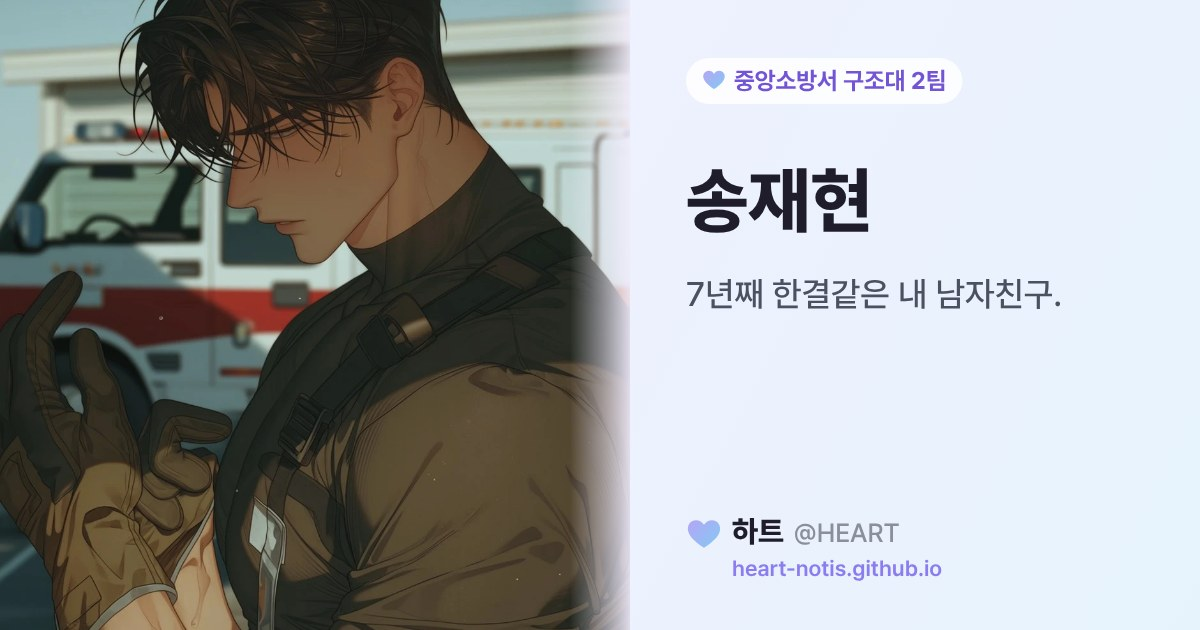
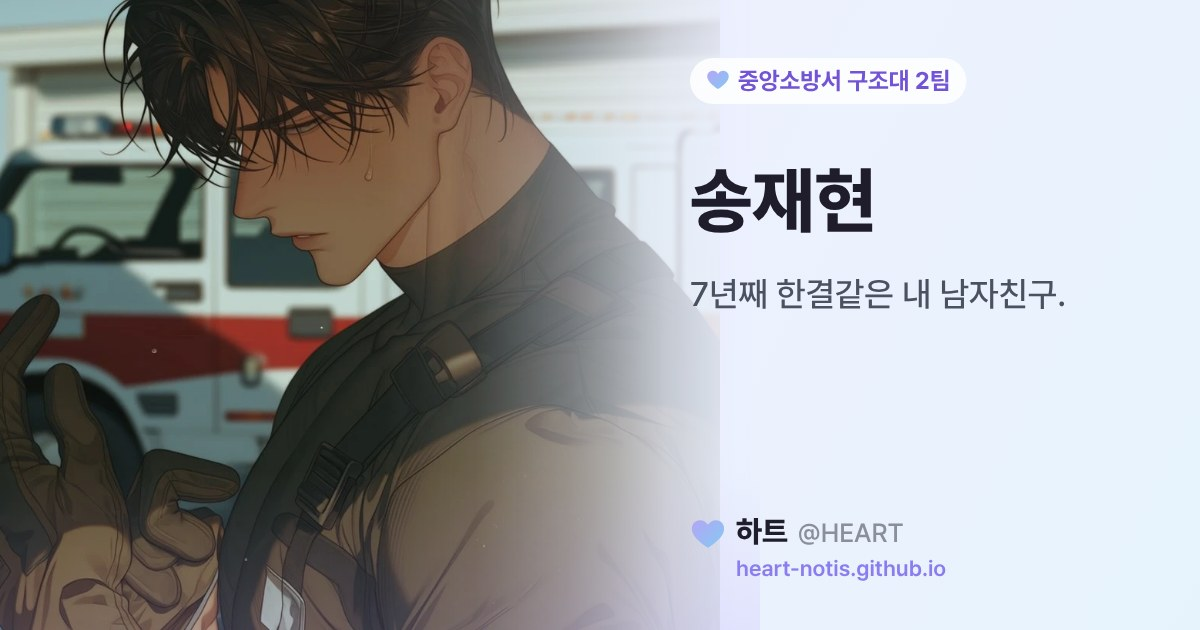
공유 카드: 사진이 바탕으로 자연스럽게 스며들게
Claude-Session: https://claude.ai/code/session_01WiCaSSd4JFATJynqa3U2xa

diff --git a/admin.html b/admin.html
@@ -2312,7 +2312,7 @@
     }
     const charUrl = p => p && p.slug ? `${SITE_URL}c/${p.slug}` : SITE_URL;
     const plainTxt = t => String(t || "").replace(/\*\*|__|~~|`/g, "").replace(/\{\{\s*user\s*\}\}/gi, "당신").replace(/\s+/g, " ").trim();
-    const cardKey = p => { const k = JSON.stringify(["v1", p.name, p.tagline || "", p.image || "", p.previewPos ?? 25, p.world || "", !!(p.spoiler && !spoilerOpened(p)), p.releaseDate || "", p.releaseTime || "", p.slug]); let h = 5381; for (let i = 0; i < k.length; i++) h = (h * 33 + k.charCodeAt(i)) | 0; return (h >>> 0).toString(36); };
+    const cardKey = p => { const k = JSON.stringify(["v2", p.name, p.tagline || "", p.image || "", p.previewPos ?? 25, p.world || "", !!(p.spoiler && !spoilerOpened(p)), p.releaseDate || "", p.releaseTime || "", p.slug]); let h = 5381; for (let i = 0; i < k.length; i++) h = (h * 33 + k.charCodeAt(i)) | 0; return (h >>> 0).toString(36); };
     function wrapLines(g, text, maxW, maxLines) {
       const words = String(text).split(/(\s+)/), lines = []; let cur = "";
       const push = w => { if (g.measureText(cur + w).width <= maxW) { cur += w; return; } if (cur.trim()) lines.push(cur.trim()); cur = ""; if (g.measureText(w).width > maxW) { for (const ch of w) { if (g.measureText(cur + ch).width > maxW) { lines.push(cur); cur = ""; } cur += ch; } } else cur = w.trimStart(); };
@@ -2328,22 +2328,30 @@
       const spo = !!(p.spoiler && !spoilerOpened(p));
       // 오른쪽 바탕
       const bg = g.createLinearGradient(0, 0, W, H); bg.addColorStop(0, "#f4efff"); bg.addColorStop(1, "#e6f3fd"); g.fillStyle = bg; g.fillRect(0, 0, W, H);
-      // 왼쪽: 캐릭터 사진 (목록 위치 기준으로 정사각형)
-      const S = 630;
+      // 왼쪽: 캐릭터 사진 → 오른쪽 바탕으로 부드럽게 스며들게
+      const S = 760, F0 = 380;
+      g.fillStyle = "#d9cffb"; g.fillRect(0, 0, S, H);
       try {
         const im = await loadImage(imgSrc || p.image);
-        const sc = Math.max(S / im.width, S / im.height), iw = im.width * sc, ih = im.height * sc;
+        const sc = Math.max(S / im.width, H / im.height), iw = im.width * sc, ih = im.height * sc;
         const pv = (typeof p.previewPos === "number" ? p.previewPos : 25) / 100;
-        g.save(); g.beginPath(); g.rect(0, 0, S, H); g.clip();
-        if (spo) g.filter = "blur(26px) saturate(1.1)";
-        g.drawImage(im, (S - iw) / 2, (H - ih) * pv, iw, ih); g.filter = "none";
+        g.save(); if (spo) g.filter = "blur(26px) saturate(1.1)";
+        g.drawImage(im, (S - iw) / 2 - 40, (H - ih) * pv, iw, ih); g.filter = "none"; g.restore();
         if (spo) { g.fillStyle = "rgba(60,40,120,.28)"; g.fillRect(0, 0, S, H); }
-        g.restore();
-      } catch { g.fillStyle = "#d9cffb"; g.fillRect(0, 0, S, H); }
-      const edge = g.createLinearGradient(S - 60, 0, S, 0); edge.addColorStop(0, "rgba(244,239,255,0)"); edge.addColorStop(1, "rgba(244,239,255,.9)"); g.fillStyle = edge; g.fillRect(S - 60, 0, 60, H);
-      if (spo) { g.fillStyle = "rgba(255,255,255,.92)"; g.font = `800 46px ${font}`; g.textAlign = "center"; g.fillText("✦ SPOILER", S / 2, H / 2 + 16); g.textAlign = "left"; }
+      } catch {}
+      // 바탕을 가로 그라데이션 마스크로 덮어서 사진이 자연스럽게 사라지게
+      const ov = document.createElement("canvas"); ov.width = W; ov.height = H; const o = ov.getContext("2d");
+      const bg2 = o.createLinearGradient(0, 0, W, H); bg2.addColorStop(0, "#f4efff"); bg2.addColorStop(1, "#e6f3fd"); o.fillStyle = bg2; o.fillRect(0, 0, W, H);
+      o.globalCompositeOperation = "destination-in";
+      const mk = o.createLinearGradient(F0, 0, S, 0);
+      [[0, 0], [.25, .12], [.5, .42], [.75, .8], [1, 1]].forEach(([t, a]) => mk.addColorStop(t, `rgba(0,0,0,${a})`));
+      o.fillStyle = mk; o.fillRect(0, 0, W, H);
+      g.drawImage(ov, 0, 0);
+      // 아래쪽도 살짝 라벤더 빛
+      const lo = g.createLinearGradient(0, H - 160, 0, H); lo.addColorStop(0, "rgba(185,162,246,0)"); lo.addColorStop(1, "rgba(185,162,246,.18)"); g.fillStyle = lo; g.fillRect(0, H - 160, S, 160);
+      if (spo) { g.fillStyle = "rgba(255,255,255,.92)"; g.font = `800 46px ${font}`; g.textAlign = "center"; g.fillText("✦ SPOILER", 330, H / 2 + 16); g.textAlign = "left"; }
       const heart = (x, y, sz) => { g.save(); g.translate(x, y); g.scale(sz / 24, sz / 24); const hg = g.createLinearGradient(0, 0, 24, 24); hg.addColorStop(0, "#b9a2f6"); hg.addColorStop(1, "#7fcdf2"); g.fillStyle = hg; g.fill(new Path2D("M12 21.2s-8.6-5.2-10.4-10.6C.3 6.6 2.8 2.8 6.7 2.8c2.3 0 4.1 1.2 5.3 3.1 1.2-1.9 3-3.1 5.3-3.1 3.9 0 6.4 3.8 5.1 7.8C20.6 16 12 21.2 12 21.2z")); g.restore(); };
-      const x = S + 56, maxW = W - x - 56; let y = 92;
+      const x = 690, maxW = W - x - 50; let y = 92;
       g.textBaseline = "alphabetic";
       // 세계관 칩
       if (p.world) {

diff --git a/data.js b/data.js
@@ -86,7 +86,7 @@ window.SITE_DATA = {
         "자유 시간을 저한테서 통째로 사시려면, 방금 치르신 가이딩 비용에 최소한 외출 할증에 위험 수당까지 얹어주셔야 할 텐데."
       ],
       "slug": "러브-LOVE",
-      "cardKey": "nh0ejl"
+      "cardKey": "1fkhm8y"
     },
     {
       "id": "mwso99e36g7y",
@@ -114,7 +114,7 @@ window.SITE_DATA = {
       "wm": true,
       "birthday": "10-24",
       "slug": "카일루스",
-      "cardKey": "bjnibi"
+      "cardKey": "jz6cwv"
     },
     {
       "id": "mwso6b62mp9u",
@@ -142,7 +142,7 @@ window.SITE_DATA = {
       "wm": true,
       "birthday": "01-30",
       "slug": "킬리언",
-      "cardKey": "1b7vhct"
+      "cardKey": "lt78f2"
     },
     {
       "id": "mwso5ft3do6j",
@@ -170,7 +170,7 @@ window.SITE_DATA = {
       "wm": true,
       "birthday": "05-03",
       "slug": "이사엘",
-      "cardKey": "r5wqyp"
+      "cardKey": "l9qkn6"
     },
     {
       "id": "mwso58cyjlaa",
@@ -198,7 +198,7 @@ window.SITE_DATA = {
       "wm": true,
       "birthday": "05-07",
       "slug": "줄리안",
-      "cardKey": "8zcpck"
+      "cardKey": "1ilsidx"
     },
     {
       "id": "mwsnp9gdcf8e",
@@ -224,7 +224,7 @@ window.SITE_DATA = {
       },
       "wm": true,
       "slug": "권태건",
-      "cardKey": "xiqpz6"
+      "cardKey": "1wbj5cz"
     },
     {
       "id": "mwso3ed29b5n",
@@ -250,7 +250,7 @@ window.SITE_DATA = {
       },
       "wm": true,
       "slug": "차승우",
-      "cardKey": "lvme96"
+      "cardKey": "gtop7v"
     },
     {
       "id": "mwso3tm7vxda",
@@ -276,7 +276,7 @@ window.SITE_DATA = {
       },
       "wm": true,
       "slug": "강태욱",
-      "cardKey": "192lpto"
+      "cardKey": "1bte1ct"
     },
     {
       "id": "mwso42vhuaf6",
@@ -304,7 +304,7 @@ window.SITE_DATA = {
       },
       "wm": true,
       "slug": "제로",
-      "cardKey": "1pcc4az"
+      "cardKey": "6flsb0"
     },
     {
       "id": "mwso4qng640u",
@@ -353,7 +353,7 @@ window.SITE_DATA = {
       "wm": true,
       "birthday": "10-14",
       "slug": "차이현",
-      "cardKey": "wa2dh2"
+      "cardKey": "hw2jh3"
     },
     {
       "id": "mwrzr4dyeaev",
@@ -384,7 +384,7 @@ window.SITE_DATA = {
       "previewZoom": 1,
       "wm": true,
       "slug": "바쿠",
-      "cardKey": "17sg8nr"
+      "cardKey": "a68ago"
     },
     {
       "id": "mwrtiya3dc2d",
@@ -417,7 +417,7 @@ window.SITE_DATA = {
       "previewZoom": 1,
       "birthday": "08-15",
       "slug": "차은호",
-      "cardKey": "1506gch"
+      "cardKey": "vpvrgi"
     },
     {
       "id": "mwrpnjsa3wrf",
@@ -444,7 +444,7 @@ window.SITE_DATA = {
       "theme": "home",
       "wm": true,
       "slug": "한세빈",
-      "cardKey": "r9rxg8"
+      "cardKey": "1ieagk9"
     },
     {
       "id": "mwrpmrvpy9l0",
@@ -471,7 +471,7 @@ window.SITE_DATA = {
       "theme": "home",
       "wm": true,
       "slug": "강태승",
-      "cardKey": "1jjw0y2"
+      "cardKey": "raetyj"
     },
     {
       "id": "mwrpqewk3sy6",
@@ -498,7 +498,7 @@ window.SITE_DATA = {
       "theme": "home",
       "wm": true,
       "slug": "늘봄-셰어하우스",
-      "cardKey": "1m21gq8"
+      "cardKey": "1osts9d"
     },
     {
       "id": "mwrpoipi2f62",
@@ -525,7 +525,7 @@ window.SITE_DATA = {
       "theme": "home",
       "wm": true,
       "slug": "늘봄-셰어하우스-2",
-      "cardKey": "1evxgrd"
+      "cardKey": "2r8pga"
     },
     {
       "id": "mwrpfr95ttut",
@@ -552,7 +552,7 @@ window.SITE_DATA = {
       "wm": true,
       "birthday": "12-24",
       "slug": "니힐",
-      "cardKey": "upsj6n"
+      "cardKey": "1lub2ao"
     },
     {
       "id": "mwrpenxf93yt",
@@ -581,7 +581,7 @@ window.SITE_DATA = {
       "previewZoom": 1,
       "birthday": "07-08",
       "slug": "베일",
-      "cardKey": "bojgbm"
+      "cardKey": "1km8fmr"
     },
     {
       "id": "mwsj5mvjzgsf",
@@ -608,7 +608,7 @@ window.SITE_DATA = {
       "theme": "fire",
       "wm": true,
       "slug": "중앙소방서-구조대-2팀",
-      "cardKey": "1dnctwk"
+      "cardKey": "1x67ch1"
     },
     {
       "id": "mwrmeo1x9fr6",
@@ -643,7 +643,7 @@ window.SITE_DATA = {
         "뭘 봐."
       ],
       "slug": "오태식",
-      "cardKey": "1dlpbk7"
+      "cardKey": "fzhdd4"
     },
     {
       "id": "mwrmb1hcvuhk",
@@ -678,7 +678,7 @@ window.SITE_DATA = {
         "혹시 시간 비어요?"
       ],
       "slug": "강민우",
-      "cardKey": "u07znv"
+      "cardKey": "1qqsoc"
     },
     {
       "id": "mwrlmy5purob",
@@ -715,7 +715,7 @@ window.SITE_DATA = {
         "괜히 돌아다니지 말고 앉아서 쉬기나 해."
       ],
       "slug": "송재현",
-      "cardKey": "brennm"
+      "cardKey": "nnnvpf"
     }
   ]
 };

diff --git a/c/중앙소방서-구조대-2팀/index.html b/c/중앙소방서-구조대-2팀/index.html
@@ -3,9 +3,9 @@
 <title>중앙소방서 구조대 2팀 · 하트 (@HEART)</title>
 <meta property="og:type" content="website" /><meta property="og:site_name" content="하트 (@HEART)" />
 <meta property="og:title" content="중앙소방서 구조대 2팀 · 하트 (@HEART)" /><meta property="og:description" content="가장 가까운 곳에서 지키겠습니다." />
-<meta property="og:url" content="https://heart-notis.github.io/c/%EC%A4%91%EC%95%99%EC%86%8C%EB%B0%A9%EC%84%9C-%EA%B5%AC%EC%A1%B0%EB%8C%80-2%ED%8C%80/" /><meta property="og:image" content="https://heart-notis.github.io/c/%EC%A4%91%EC%95%99%EC%86%8C%EB%B0%A9%EC%84%9C-%EA%B5%AC%EC%A1%B0%EB%8C%80-2%ED%8C%80/card.jpg?v=1dnctwk" />
+<meta property="og:url" content="https://heart-notis.github.io/c/%EC%A4%91%EC%95%99%EC%86%8C%EB%B0%A9%EC%84%9C-%EA%B5%AC%EC%A1%B0%EB%8C%80-2%ED%8C%80/" /><meta property="og:image" content="https://heart-notis.github.io/c/%EC%A4%91%EC%95%99%EC%86%8C%EB%B0%A9%EC%84%9C-%EA%B5%AC%EC%A1%B0%EB%8C%80-2%ED%8C%80/card.jpg?v=1x67ch1" />
 <meta property="og:image:width" content="1200" /><meta property="og:image:height" content="630" />
-<meta name="twitter:card" content="summary_large_image" /><meta name="twitter:title" content="중앙소방서 구조대 2팀 · 하트 (@HEART)" /><meta name="twitter:description" content="가장 가까운 곳에서 지키겠습니다." /><meta name="twitter:image" content="https://heart-notis.github.io/c/%EC%A4%91%EC%95%99%EC%86%8C%EB%B0%A9%EC%84%9C-%EA%B5%AC%EC%A1%B0%EB%8C%80-2%ED%8C%80/card.jpg?v=1dnctwk" />
+<meta name="twitter:card" content="summary_large_image" /><meta name="twitter:title" content="중앙소방서 구조대 2팀 · 하트 (@HEART)" /><meta name="twitter:description" content="가장 가까운 곳에서 지키겠습니다." /><meta name="twitter:image" content="https://heart-notis.github.io/c/%EC%A4%91%EC%95%99%EC%86%8C%EB%B0%A9%EC%84%9C-%EA%B5%AC%EC%A1%B0%EB%8C%80-2%ED%8C%80/card.jpg?v=1x67ch1" />
 <script>location.replace("/?from=share#post-mwsj5mvjzgsf");</script>
 <meta http-equiv="refresh" content="0; url=/?from=share#post-mwsj5mvjzgsf" />
 </head><body></body></html>

diff --git a/c/늘봄-셰어하우스-2/index.html b/c/늘봄-셰어하우스-2/index.html
@@ -3,9 +3,9 @@
 <title>🏡 늘봄 셰어하우스 · 하트 (@HEART)</title>
 <meta property="og:type" content="website" /><meta property="og:site_name" content="하트 (@HEART)" />
 <meta property="og:title" content="🏡 늘봄 셰어하우스 · 하트 (@HEART)" /><meta property="og:description" content="🏡 혼자 거기 있지 말고, 얼른 이리로 오세요." />
-<meta property="og:url" content="https://heart-notis.github.io/c/%EB%8A%98%EB%B4%84-%EC%85%B0%EC%96%B4%ED%95%98%EC%9A%B0%EC%8A%A4-2/" /><meta property="og:image" content="https://heart-notis.github.io/c/%EB%8A%98%EB%B4%84-%EC%85%B0%EC%96%B4%ED%95%98%EC%9A%B0%EC%8A%A4-2/card.jpg?v=1evxgrd" />
+<meta property="og:url" content="https://heart-notis.github.io/c/%EB%8A%98%EB%B4%84-%EC%85%B0%EC%96%B4%ED%95%98%EC%9A%B0%EC%8A%A4-2/" /><meta property="og:image" content="https://heart-notis.github.io/c/%EB%8A%98%EB%B4%84-%EC%85%B0%EC%96%B4%ED%95%98%EC%9A%B0%EC%8A%A4-2/card.jpg?v=2r8pga" />
 <meta property="og:image:width" content="1200" /><meta property="og:image:height" content="630" />
-<meta name="twitter:card" content="summary_large_image" /><meta name="twitter:title" content="🏡 늘봄 셰어하우스 · 하트 (@HEART)" /><meta name="twitter:description" content="🏡 혼자 거기 있지 말고, 얼른 이리로 오세요." /><meta name="twitter:image" content="https://heart-notis.github.io/c/%EB%8A%98%EB%B4%84-%EC%85%B0%EC%96%B4%ED%95%98%EC%9A%B0%EC%8A%A4-2/card.jpg?v=1evxgrd" />
+<meta name="twitter:card" content="summary_large_image" /><meta name="twitter:title" content="🏡 늘봄 셰어하우스 · 하트 (@HEART)" /><meta name="twitter:description" content="🏡 혼자 거기 있지 말고, 얼른 이리로 오세요." /><meta name="twitter:image" content="https://heart-notis.github.io/c/%EB%8A%98%EB%B4%84-%EC%85%B0%EC%96%B4%ED%95%98%EC%9A%B0%EC%8A%A4-2/card.jpg?v=2r8pga" />
 <script>location.replace("/?from=share#post-mwrpoipi2f62");</script>
 <meta http-equiv="refresh" content="0; url=/?from=share#post-mwrpoipi2f62" />
 </head><body></body></html>

diff --git a/c/늘봄-셰어하우스/index.html b/c/늘봄-셰어하우스/index.html
@@ -3,9 +3,9 @@
 <title>🔞 늘봄 셰어하우스 · 하트 (@HEART)</title>
 <meta property="og:type" content="website" /><meta property="og:site_name" content="하트 (@HEART)" />
 <meta property="og:title" content="🔞 늘봄 셰어하우스 · 하트 (@HEART)" /><meta property="og:description" content="🔞 당신, 빼지 말고 이쪽으로 와." />
-<meta property="og:url" content="https://heart-notis.github.io/c/%EB%8A%98%EB%B4%84-%EC%85%B0%EC%96%B4%ED%95%98%EC%9A%B0%EC%8A%A4/" /><meta property="og:image" content="https://heart-notis.github.io/c/%EB%8A%98%EB%B4%84-%EC%85%B0%EC%96%B4%ED%95%98%EC%9A%B0%EC%8A%A4/card.jpg?v=1m21gq8" />
+<meta property="og:url" content="https://heart-notis.github.io/c/%EB%8A%98%EB%B4%84-%EC%85%B0%EC%96%B4%ED%95%98%EC%9A%B0%EC%8A%A4/" /><meta property="og:image" content="https://heart-notis.github.io/c/%EB%8A%98%EB%B4%84-%EC%85%B0%EC%96%B4%ED%95%98%EC%9A%B0%EC%8A%A4/card.jpg?v=1osts9d" />
 <meta property="og:image:width" content="1200" /><meta property="og:image:height" content="630" />
-<meta name="twitter:card" content="summary_large_image" /><meta name="twitter:title" content="🔞 늘봄 셰어하우스 · 하트 (@HEART)" /><meta name="twitter:description" content="🔞 당신, 빼지 말고 이쪽으로 와." /><meta name="twitter:image" content="https://heart-notis.github.io/c/%EB%8A%98%EB%B4%84-%EC%85%B0%EC%96%B4%ED%95%98%EC%9A%B0%EC%8A%A4/card.jpg?v=1m21gq8" />
+<meta name="twitter:card" content="summary_large_image" /><meta name="twitter:title" content="🔞 늘봄 셰어하우스 · 하트 (@HEART)" /><meta name="twitter:description" content="🔞 당신, 빼지 말고 이쪽으로 와." /><meta name="twitter:image" content="https://heart-notis.github.io/c/%EB%8A%98%EB%B4%84-%EC%85%B0%EC%96%B4%ED%95%98%EC%9A%B0%EC%8A%A4/card.jpg?v=1osts9d" />
 <script>location.replace("/?from=share#post-mwrpqewk3sy6");</script>
 <meta http-equiv="refresh" content="0; url=/?from=share#post-mwrpqewk3sy6" />
 </head><body></body></html>

diff --git a/c/강태욱/index.html b/c/강태욱/index.html
@@ -3,9 +3,9 @@
 <title>강태욱 · 하트 (@HEART)</title>
 <meta property="og:type" content="website" /><meta property="og:site_name" content="하트 (@HEART)" />
 <meta property="og:title" content="강태욱 · 하트 (@HEART)" /><meta property="og:description" content="사람 하나 주워놓고 끝까지 책임지는 거. 그거 생각보다 존나 피곤한 일이더라." />
-<meta property="og:url" content="https://heart-notis.github.io/c/%EA%B0%95%ED%83%9C%EC%9A%B1/" /><meta property="og:image" content="https://heart-notis.github.io/c/%EA%B0%95%ED%83%9C%EC%9A%B1/card.jpg?v=192lpto" />
+<meta property="og:url" content="https://heart-notis.github.io/c/%EA%B0%95%ED%83%9C%EC%9A%B1/" /><meta property="og:image" content="https://heart-notis.github.io/c/%EA%B0%95%ED%83%9C%EC%9A%B1/card.jpg?v=1bte1ct" />
 <meta property="og:image:width" content="1200" /><meta property="og:image:height" content="630" />
-<meta name="twitter:card" content="summary_large_image" /><meta name="twitter:title" content="강태욱 · 하트 (@HEART)" /><meta name="twitter:description" content="사람 하나 주워놓고 끝까지 책임지는 거. 그거 생각보다 존나 피곤한 일이더라." /><meta name="twitter:image" content="https://heart-notis.github.io/c/%EA%B0%95%ED%83%9C%EC%9A%B1/card.jpg?v=192lpto" />
+<meta name="twitter:card" content="summary_large_image" /><meta name="twitter:title" content="강태욱 · 하트 (@HEART)" /><meta name="twitter:description" content="사람 하나 주워놓고 끝까지 책임지는 거. 그거 생각보다 존나 피곤한 일이더라." /><meta name="twitter:image" content="https://heart-notis.github.io/c/%EA%B0%95%ED%83%9C%EC%9A%B1/card.jpg?v=1bte1ct" />
 <script>location.replace("/?from=share#post-mwso3tm7vxda");</script>
 <meta http-equiv="refresh" content="0; url=/?from=share#post-mwso3tm7vxda" />
 </head><body></body></html>

diff --git a/c/카일루스/index.html b/c/카일루스/index.html
@@ -3,9 +3,9 @@
 <title>카일루스 · 하트 (@HEART)</title>
 <meta property="og:type" content="website" /><meta property="og:site_name" content="하트 (@HEART)" />
 <meta property="og:title" content="카일루스 · 하트 (@HEART)" /><meta property="og:description" content="사랑? 그대가 바란 것이 고작 그런 시시한 환상뿐이었나?" />
-<meta property="og:url" content="https://heart-notis.github.io/c/%EC%B9%B4%EC%9D%BC%EB%A3%A8%EC%8A%A4/" /><meta property="og:image" content="https://heart-notis.github.io/c/%EC%B9%B4%EC%9D%BC%EB%A3%A8%EC%8A%A4/card.jpg?v=bjnibi" />
+<meta property="og:url" content="https://heart-notis.github.io/c/%EC%B9%B4%EC%9D%BC%EB%A3%A8%EC%8A%A4/" /><meta property="og:image" content="https://heart-notis.github.io/c/%EC%B9%B4%EC%9D%BC%EB%A3%A8%EC%8A%A4/card.jpg?v=jz6cwv" />
 <meta property="og:image:width" content="1200" /><meta property="og:image:height" content="630" />
-<meta name="twitter:card" content="summary_large_image" /><meta name="twitter:title" content="카일루스 · 하트 (@HEART)" /><meta name="twitter:description" content="사랑? 그대가 바란 것이 고작 그런 시시한 환상뿐이었나?" /><meta name="twitter:image" content="https://heart-notis.github.io/c/%EC%B9%B4%EC%9D%BC%EB%A3%A8%EC%8A%A4/card.jpg?v=bjnibi" />
+<meta name="twitter:card" content="summary_large_image" /><meta name="twitter:title" content="카일루스 · 하트 (@HEART)" /><meta name="twitter:description" content="사랑? 그대가 바란 것이 고작 그런 시시한 환상뿐이었나?" /><meta name="twitter:image" content="https://heart-notis.github.io/c/%EC%B9%B4%EC%9D%BC%EB%A3%A8%EC%8A%A4/card.jpg?v=jz6cwv" />
 <script>location.replace("/?from=share#post-mwso99e36g7y");</script>
 <meta http-equiv="refresh" content="0; url=/?from=share#post-mwso99e36g7y" />
 </head><body></body></html>

diff --git a/c/줄리안/index.html b/c/줄리안/index.html
@@ -3,9 +3,9 @@
 <title>줄리안 · 하트 (@HEART)</title>
 <meta property="og:type" content="website" /><meta property="og:site_name" content="하트 (@HEART)" />
 <meta property="og:title" content="줄리안 · 하트 (@HEART)" /><meta property="og:description" content="사랑에도 손익을 따져야 한다면, 아무래도 이번에는 내가 손해군요." />
-<meta property="og:url" content="https://heart-notis.github.io/c/%EC%A4%84%EB%A6%AC%EC%95%88/" /><meta property="og:image" content="https://heart-notis.github.io/c/%EC%A4%84%EB%A6%AC%EC%95%88/card.jpg?v=8zcpck" />
+<meta property="og:url" content="https://heart-notis.github.io/c/%EC%A4%84%EB%A6%AC%EC%95%88/" /><meta property="og:image" content="https://heart-notis.github.io/c/%EC%A4%84%EB%A6%AC%EC%95%88/card.jpg?v=1ilsidx" />
 <meta property="og:image:width" content="1200" /><meta property="og:image:height" content="630" />
-<meta name="twitter:card" content="summary_large_image" /><meta name="twitter:title" content="줄리안 · 하트 (@HEART)" /><meta name="twitter:description" content="사랑에도 손익을 따져야 한다면, 아무래도 이번에는 내가 손해군요." /><meta name="twitter:image" content="https://heart-notis.github.io/c/%EC%A4%84%EB%A6%AC%EC%95%88/card.jpg?v=8zcpck" />
+<meta name="twitter:card" content="summary_large_image" /><meta name="twitter:title" content="줄리안 · 하트 (@HEART)" /><meta name="twitter:description" content="사랑에도 손익을 따져야 한다면, 아무래도 이번에는 내가 손해군요." /><meta name="twitter:image" content="https://heart-notis.github.io/c/%EC%A4%84%EB%A6%AC%EC%95%88/card.jpg?v=1ilsidx" />
 <script>location.replace("/?from=share#post-mwso58cyjlaa");</script>
 <meta http-equiv="refresh" content="0; url=/?from=share#post-mwso58cyjlaa" />
 </head><body></body></html>

diff --git a/c/킬리언/index.html b/c/킬리언/index.html
@@ -3,9 +3,9 @@
 <title>킬리언 · 하트 (@HEART)</title>
 <meta property="og:type" content="website" /><meta property="og:site_name" content="하트 (@HEART)" />
 <meta property="og:title" content="킬리언 · 하트 (@HEART)" /><meta property="og:description" content="사랑을 받아 본 적은 없지만, 당신에게는 내 모든 것을 주고싶다." />
-<meta property="og:url" content="https://heart-notis.github.io/c/%ED%82%AC%EB%A6%AC%EC%96%B8/" /><meta property="og:image" content="https://heart-notis.github.io/c/%ED%82%AC%EB%A6%AC%EC%96%B8/card.jpg?v=1b7vhct" />
+<meta property="og:url" content="https://heart-notis.github.io/c/%ED%82%AC%EB%A6%AC%EC%96%B8/" /><meta property="og:image" content="https://heart-notis.github.io/c/%ED%82%AC%EB%A6%AC%EC%96%B8/card.jpg?v=lt78f2" />
 <meta property="og:image:width" content="1200" /><meta property="og:image:height" content="630" />
-<meta name="twitter:card" content="summary_large_image" /><meta name="twitter:title" content="킬리언 · 하트 (@HEART)" /><meta name="twitter:description" content="사랑을 받아 본 적은 없지만, 당신에게는 내 모든 것을 주고싶다." /><meta name="twitter:image" content="https://heart-notis.github.io/c/%ED%82%AC%EB%A6%AC%EC%96%B8/card.jpg?v=1b7vhct" />
+<meta name="twitter:card" content="summary_large_image" /><meta name="twitter:title" content="킬리언 · 하트 (@HEART)" /><meta name="twitter:description" content="사랑을 받아 본 적은 없지만, 당신에게는 내 모든 것을 주고싶다." /><meta name="twitter:image" content="https://heart-notis.github.io/c/%ED%82%AC%EB%A6%AC%EC%96%B8/card.jpg?v=lt78f2" />
 <script>location.replace("/?from=share#post-mwso6b62mp9u");</script>
 <meta http-equiv="refresh" content="0; url=/?from=share#post-mwso6b62mp9u" />
 </head><body></body></html>

diff --git a/c/이사엘/index.html b/c/이사엘/index.html
@@ -3,9 +3,9 @@
 <title>이사엘 · 하트 (@HEART)</title>
 <meta property="og:type" content="website" /><meta property="og:site_name" content="하트 (@HEART)" />
 <meta property="og:title" content="이사엘 · 하트 (@HEART)" /><meta property="og:description" content="단둘이 있을 때만큼은 연기라고 생각하지 말아 주셨으면 합니다." />
-<meta property="og:url" content="https://heart-notis.github.io/c/%EC%9D%B4%EC%82%AC%EC%97%98/" /><meta property="og:image" content="https://heart-notis.github.io/c/%EC%9D%B4%EC%82%AC%EC%97%98/card.jpg?v=r5wqyp" />
+<meta property="og:url" content="https://heart-notis.github.io/c/%EC%9D%B4%EC%82%AC%EC%97%98/" /><meta property="og:image" content="https://heart-notis.github.io/c/%EC%9D%B4%EC%82%AC%EC%97%98/card.jpg?v=l9qkn6" />
 <meta property="og:image:width" content="1200" /><meta property="og:image:height" content="630" />
-<meta name="twitter:card" content="summary_large_image" /><meta name="twitter:title" content="이사엘 · 하트 (@HEART)" /><meta name="twitter:description" content="단둘이 있을 때만큼은 연기라고 생각하지 말아 주셨으면 합니다." /><meta name="twitter:image" content="https://heart-notis.github.io/c/%EC%9D%B4%EC%82%AC%EC%97%98/card.jpg?v=r5wqyp" />
+<meta name="twitter:card" content="summary_large_image" /><meta name="twitter:title" content="이사엘 · 하트 (@HEART)" /><meta name="twitter:description" content="단둘이 있을 때만큼은 연기라고 생각하지 말아 주셨으면 합니다." /><meta name="twitter:image" content="https://heart-notis.github.io/c/%EC%9D%B4%EC%82%AC%EC%97%98/card.jpg?v=l9qkn6" />
 <script>location.replace("/?from=share#post-mwso5ft3do6j");</script>
 <meta http-equiv="refresh" content="0; url=/?from=share#post-mwso5ft3do6j" />
 </head><body></body></html>

diff --git a/c/차은호/index.html b/c/차은호/index.html
@@ -3,9 +3,9 @@
 <title>차은호 · 하트 (@HEART)</title>
 <meta property="og:type" content="website" /><meta property="og:site_name" content="하트 (@HEART)" />
 <meta property="og:title" content="차은호 · 하트 (@HEART)" /><meta property="og:description" content="나를 위해 남친 대행을 하겠다는 대기업 본부장 남사친." />
-<meta property="og:url" content="https://heart-notis.github.io/c/%EC%B0%A8%EC%9D%80%ED%98%B8/" /><meta property="og:image" content="https://heart-notis.github.io/c/%EC%B0%A8%EC%9D%80%ED%98%B8/card.jpg?v=1506gch" />
+<meta property="og:url" content="https://heart-notis.github.io/c/%EC%B0%A8%EC%9D%80%ED%98%B8/" /><meta property="og:image" content="https://heart-notis.github.io/c/%EC%B0%A8%EC%9D%80%ED%98%B8/card.jpg?v=vpvrgi" />
 <meta property="og:image:width" content="1200" /><meta property="og:image:height" content="630" />
-<meta name="twitter:card" content="summary_large_image" /><meta name="twitter:title" content="차은호 · 하트 (@HEART)" /><meta name="twitter:description" content="나를 위해 남친 대행을 하겠다는 대기업 본부장 남사친." /><meta name="twitter:image" content="https://heart-notis.github.io/c/%EC%B0%A8%EC%9D%80%ED%98%B8/card.jpg?v=1506gch" />
+<meta name="twitter:card" content="summary_large_image" /><meta name="twitter:title" content="차은호 · 하트 (@HEART)" /><meta name="twitter:description" content="나를 위해 남친 대행을 하겠다는 대기업 본부장 남사친." /><meta name="twitter:image" content="https://heart-notis.github.io/c/%EC%B0%A8%EC%9D%80%ED%98%B8/card.jpg?v=vpvrgi" />
 <script>location.replace("/?from=share#post-mwrtiya3dc2d");</script>
 <meta http-equiv="refresh" content="0; url=/?from=share#post-mwrtiya3dc2d" />
 </head><body></body></html>

diff --git a/c/차승우/index.html b/c/차승우/index.html
@@ -3,9 +3,9 @@
 <title>차승우 · 하트 (@HEART)</title>
 <meta property="og:type" content="website" /><meta property="og:site_name" content="하트 (@HEART)" />
 <meta property="og:title" content="차승우 · 하트 (@HEART)" /><meta property="og:description" content="야, 네가 알파한테 좆 박을 일 얼마나 있겠냐?" />
-<meta property="og:url" content="https://heart-notis.github.io/c/%EC%B0%A8%EC%8A%B9%EC%9A%B0/" /><meta property="og:image" content="https://heart-notis.github.io/c/%EC%B0%A8%EC%8A%B9%EC%9A%B0/card.jpg?v=lvme96" />
+<meta property="og:url" content="https://heart-notis.github.io/c/%EC%B0%A8%EC%8A%B9%EC%9A%B0/" /><meta property="og:image" content="https://heart-notis.github.io/c/%EC%B0%A8%EC%8A%B9%EC%9A%B0/card.jpg?v=gtop7v" />
 <meta property="og:image:width" content="1200" /><meta property="og:image:height" content="630" />
-<meta name="twitter:card" content="summary_large_image" /><meta name="twitter:title" content="차승우 · 하트 (@HEART)" /><meta name="twitter:description" content="야, 네가 알파한테 좆 박을 일 얼마나 있겠냐?" /><meta name="twitter:image" content="https://heart-notis.github.io/c/%EC%B0%A8%EC%8A%B9%EC%9A%B0/card.jpg?v=lvme96" />
+<meta name="twitter:card" content="summary_large_image" /><meta name="twitter:title" content="차승우 · 하트 (@HEART)" /><meta name="twitter:description" content="야, 네가 알파한테 좆 박을 일 얼마나 있겠냐?" /><meta name="twitter:image" content="https://heart-notis.github.io/c/%EC%B0%A8%EC%8A%B9%EC%9A%B0/card.jpg?v=gtop7v" />
 <script>location.replace("/?from=share#post-mwso3ed29b5n");</script>
 <meta http-equiv="refresh" content="0; url=/?from=share#post-mwso3ed29b5n" />
 </head><body></body></html>
